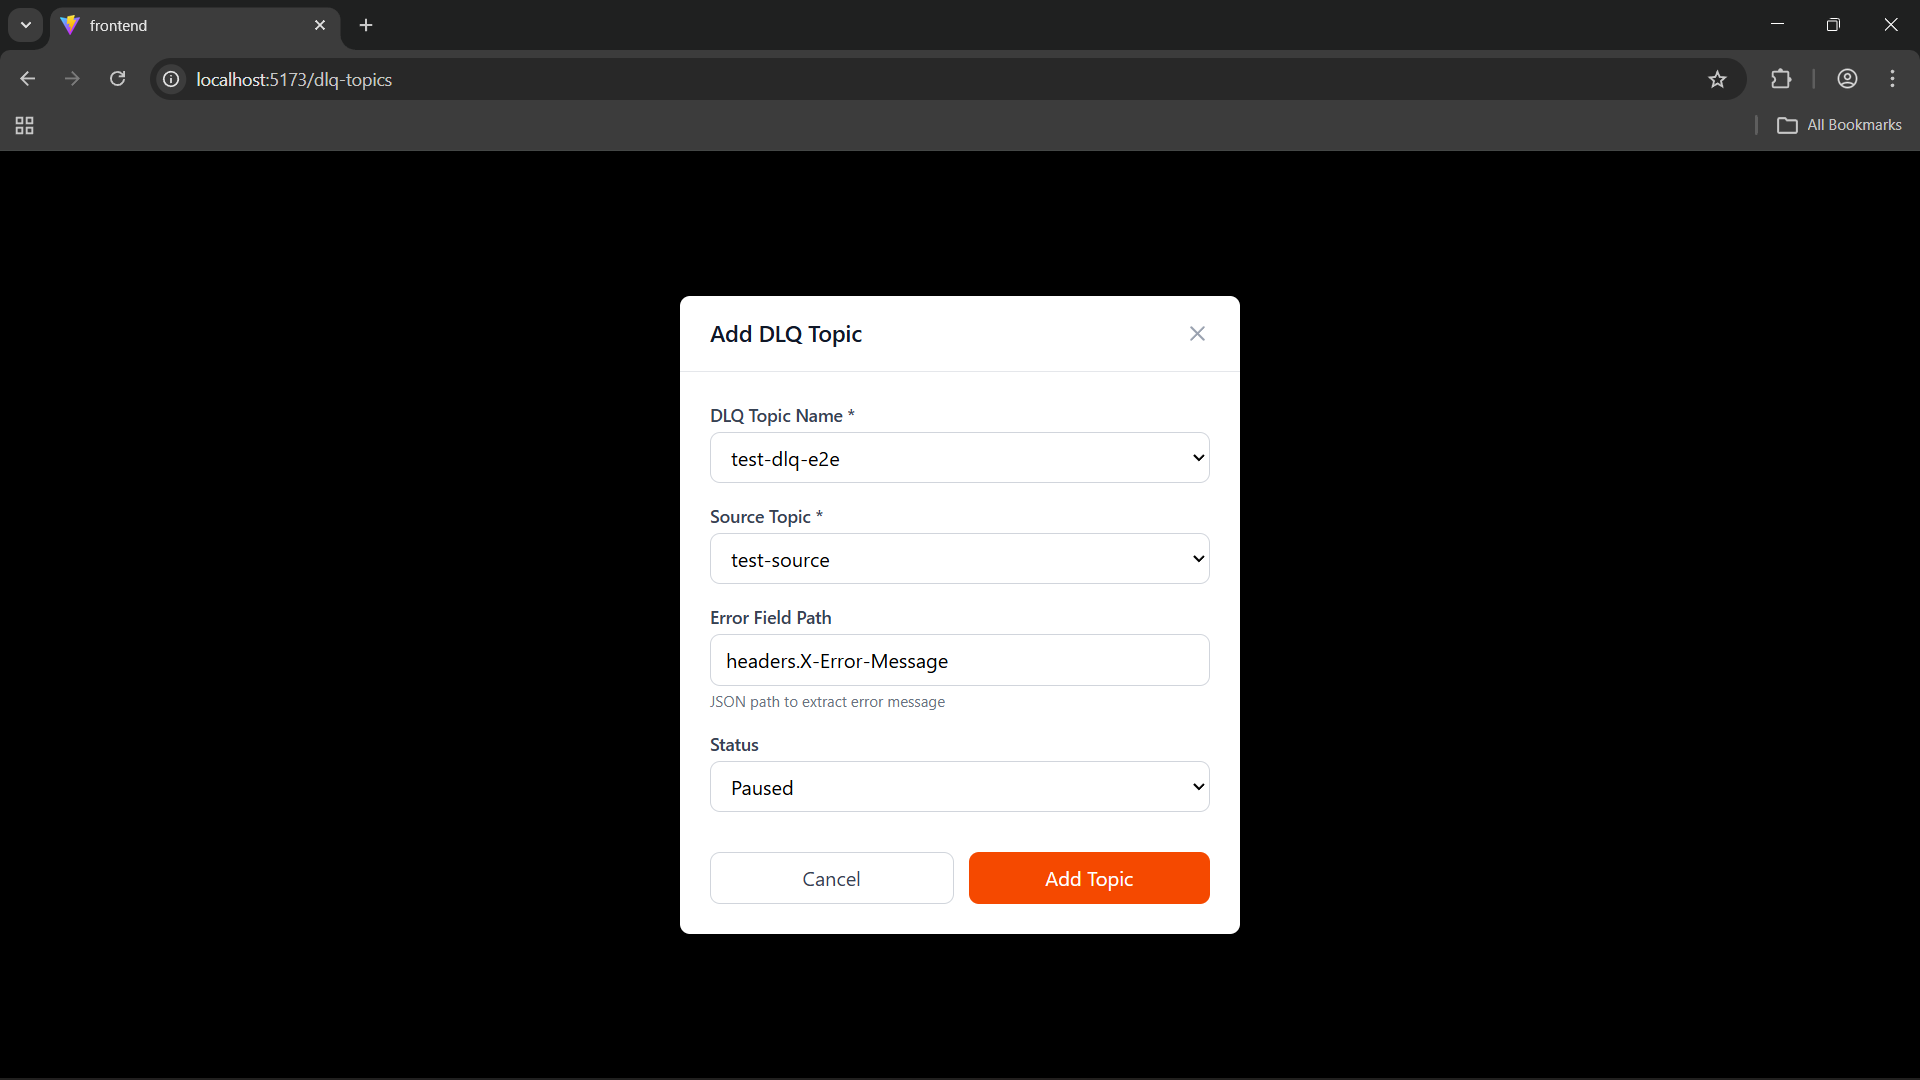
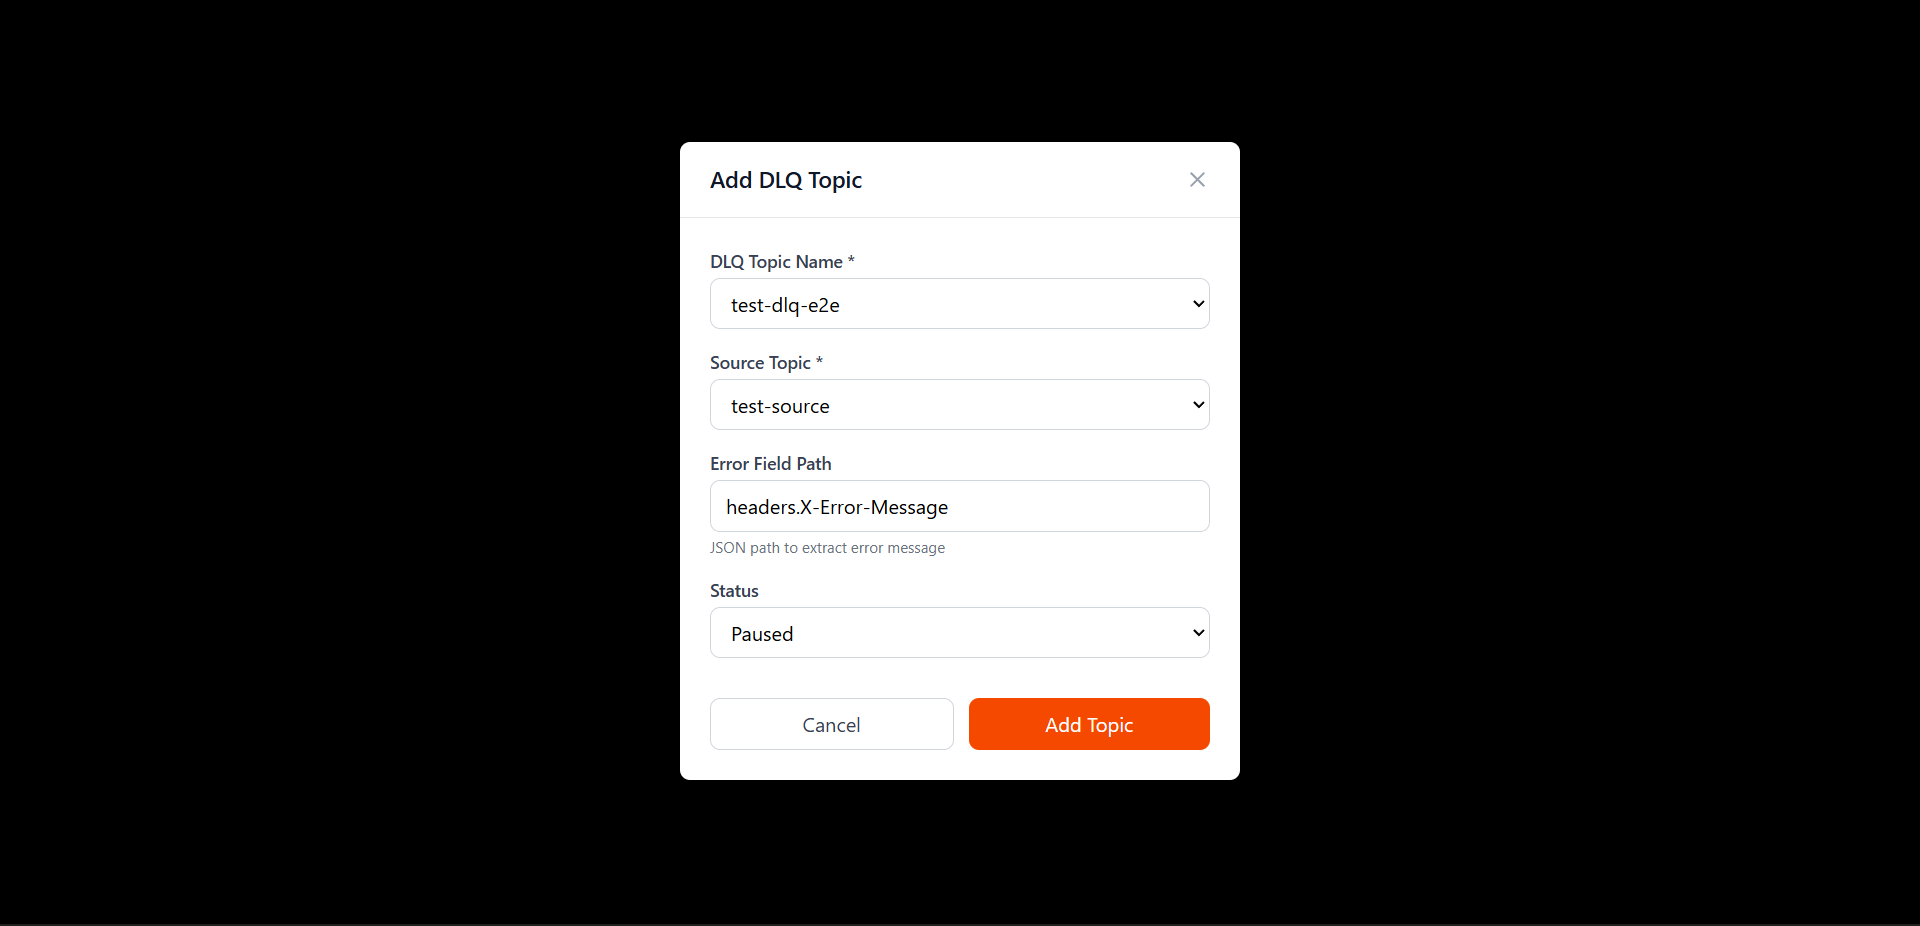
Add dark mode screenshots and update README

Changed region(s): [[0.0, 0.0, 1.0, 0.6955], [0.3438, 0.7257, 0.6562, 0.8769], [0.375, 0.7257, 0.4375, 0.7559]]

diff --git a/README.md b/README.md
@@ -28,55 +28,39 @@ When Kafka consumers fail to process messages, those messages often end up in a 
 
 ## Screenshots
 
-<details>
-<summary><strong>Dashboard</strong> — Overview of all DLQ topics, stats, and recent replays</summary>
-
+### Dashboard
 ![Dashboard](assets/01-dashboard.png)
-</details>
+![Dashboard Dark](assets/15-dark-dashboard.png)
 
-<details>
-<summary><strong>DLQ Topics</strong> — List, search, add, edit, and delete topic registrations</summary>
-
+### DLQ Topics
 ![DLQ Topics List](assets/02-dlq-topics-list.png)
-![Add DLQ Topic](assets/09-add-topic-modal.png)
-</details>
+![DLQ Topics Dark](assets/16-dark-dlq-topics.png)
 
-<details>
-<summary><strong>Message Browser</strong> — Browse messages with error breakdown visualization</summary>
-
+### Message Browser
 ![Topic Detail with Error Breakdown](assets/04-topic-detail-error-breakdown.png)
-</details>
 
-<details>
-<summary><strong>Message Details</strong> — Full payload, headers, metadata, and single-message replay</summary>
-
+### Message Details
 ![Message Detail Modal](assets/05-message-detail-modal.png)
-</details>
 
-<details>
-<summary><strong>Replay History</strong> — Audit trail with status, success rates, and timestamps</summary>
-
+### Replay History
 ![Replay History](assets/06-replay-history.png)
-</details>
+![Replay History Dark](assets/17-dark-replay-history.png)
+
+### Alerts
+![Alerts](assets/07-alerts-coming-soon.png)
+![Alerts Dark](assets/18-dark-alerts.png)
+
+### Settings
+![Settings - Kafka Config](assets/10-settings-kafka-config.png)
+![Settings Dark](assets/19-dark-settings.png)
 
 <details>
-<summary><strong>Settings</strong> — Kafka configuration, connection testing, and cluster info</summary>
-
-**Configure bootstrap servers:**
-
-![Settings - Kafka Config](assets/10-settings-kafka-config.png)
-
-**Test connection (Save enabled only after success):**
+<summary>More Settings screenshots</summary>
 
 ![Connection Test Success](assets/11-settings-connection-test-success.png)
-
-**Configuration saved:**
-
 ![Config Saved](assets/12-settings-config-saved.png)
-
-**Failed connection (Save stays disabled):**
-
 ![Connection Failed](assets/13-settings-connection-test-failed.png)
+![Add DLQ Topic](assets/09-add-topic-modal.png)
 </details>
 
 ---
@@ -93,7 +77,6 @@ When Kafka consumers fail to process messages, those messages often end up in a 
 | Replay History | Full audit trail of all replay operations |
 | Auto-Discovery | Detect DLQ topics by naming convention (`*-dlq`, `*-error`) |
 | Dashboard | Overview cards, topic list, recent replays |
-| Dark Mode | Toggle between light and dark themes, persisted across sessions |
 
 ### v2.0 — Dynamic Kafka Configuration
 | Feature | Description |
@@ -103,6 +86,11 @@ When Kafka consumers fail to process messages, those messages often end up in a 
 | Persistent Config | Configuration stored in PostgreSQL, survives restarts |
 | Hot Reload | Config changes take effect immediately — no backend restart needed |
 | Fallback | Falls back to `application.properties` if no UI config is saved |
+
+### v3.0 — UI Polish
+| Feature | Description |
+|---------|-------------|
+| Dark Mode | Toggle between light and dark themes, persisted across sessions |
 
 ---
 
@@ -347,10 +335,11 @@ DLQ messages should include these headers for full functionality:
 - [x] **Phase 2** — Message Browsing & Error Analytics
 - [x] **Phase 3** — Message Replay (single & bulk)
 - [x] **Phase 4** — Frontend Dashboard (React + Tailwind)
-- [ ] **Phase 5** — Alerting & Notifications
 - [x] **Phase 6** — Dynamic Kafka Configuration
-- [ ] **Phase 7** — Authentication & RBAC
-- [ ] **Phase 8** — Multi-cluster Support
+- [x] **Phase 7** — Dark Mode & UI Polish
+- [ ] **Phase 8** — Alerting & Notifications
+- [ ] **Phase 9** — Authentication & RBAC
+- [ ] **Phase 10** — Multi-cluster Support
 
 See [TODO.md](TODO.md) for the detailed backlog.
 

diff --git a/TODO.md b/TODO.md
@@ -31,7 +31,16 @@
 
 ---
 
-## v3.0 — Alerting & Notifications (Planned)
+## v3.0 — UI Polish (Completed)
+
+| Feature | Status |
+|---------|--------|
+| Dark mode toggle | Done |
+| Dark mode across all pages (inputs, tables, modals, cards) | Done |
+
+---
+
+## v4.0 — Alerting & Notifications (Planned)
 
 ### Alert Rules
 - [ ] Create alert rules for DLQ topics
@@ -52,7 +61,7 @@
 
 ---
 
-## v4.0 — Authentication & RBAC (Planned)
+## v5.0 — Authentication & RBAC (Planned)
 
 - [ ] User authentication (username/password or OAuth)
 - [ ] Role-based access control (Admin, Viewer, Operator)
@@ -61,7 +70,7 @@
 
 ---
 
-## v5.0 — Multi-Cluster & Advanced Kafka (Planned)
+## v6.0 — Multi-Cluster & Advanced Kafka (Planned)
 
 - [ ] Multi-cluster support with cluster switching
 - [ ] Connection profiles (dev/staging/prod)
